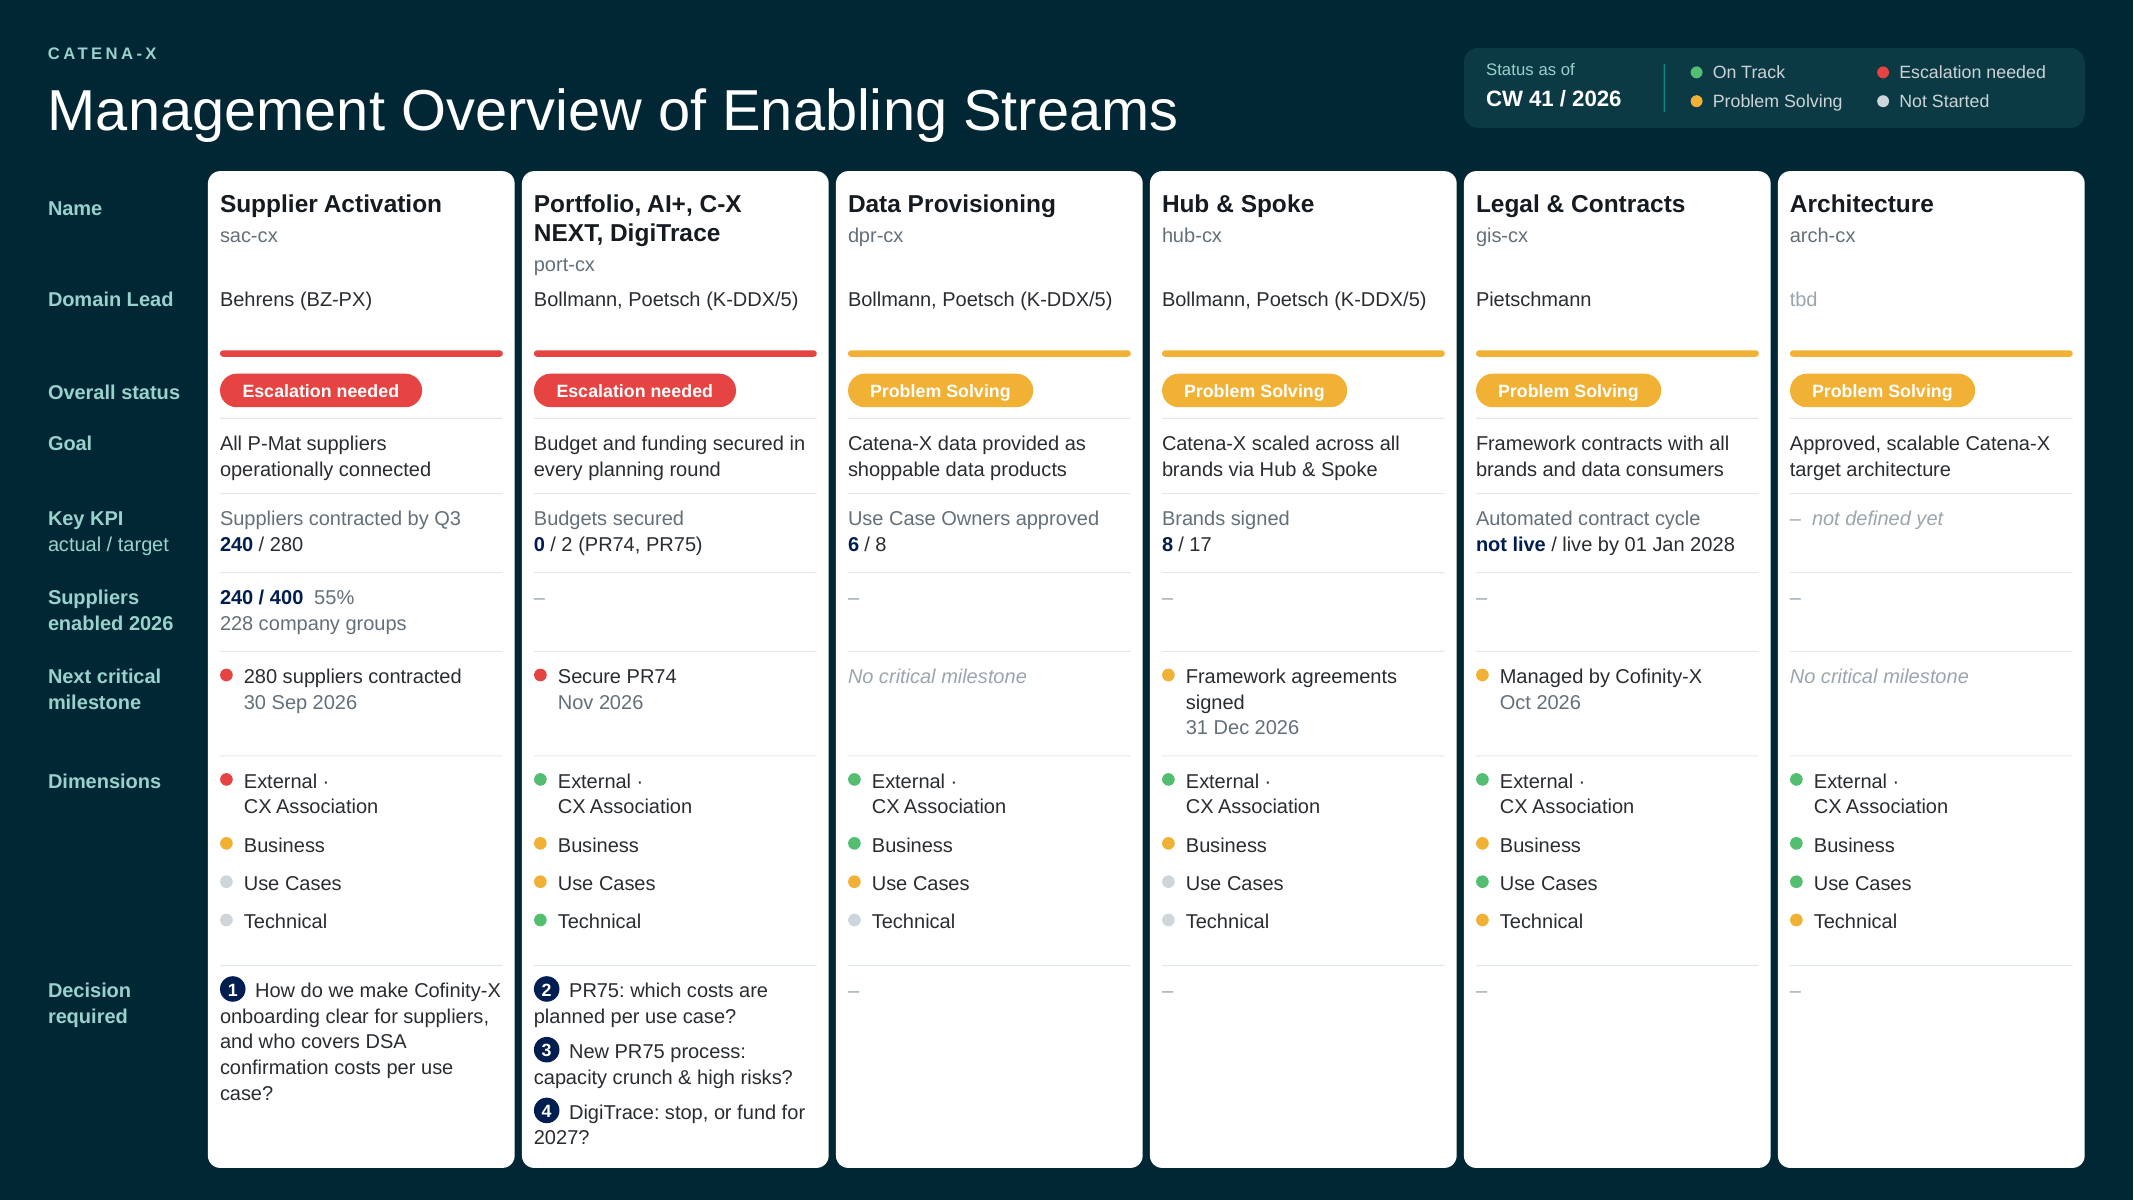
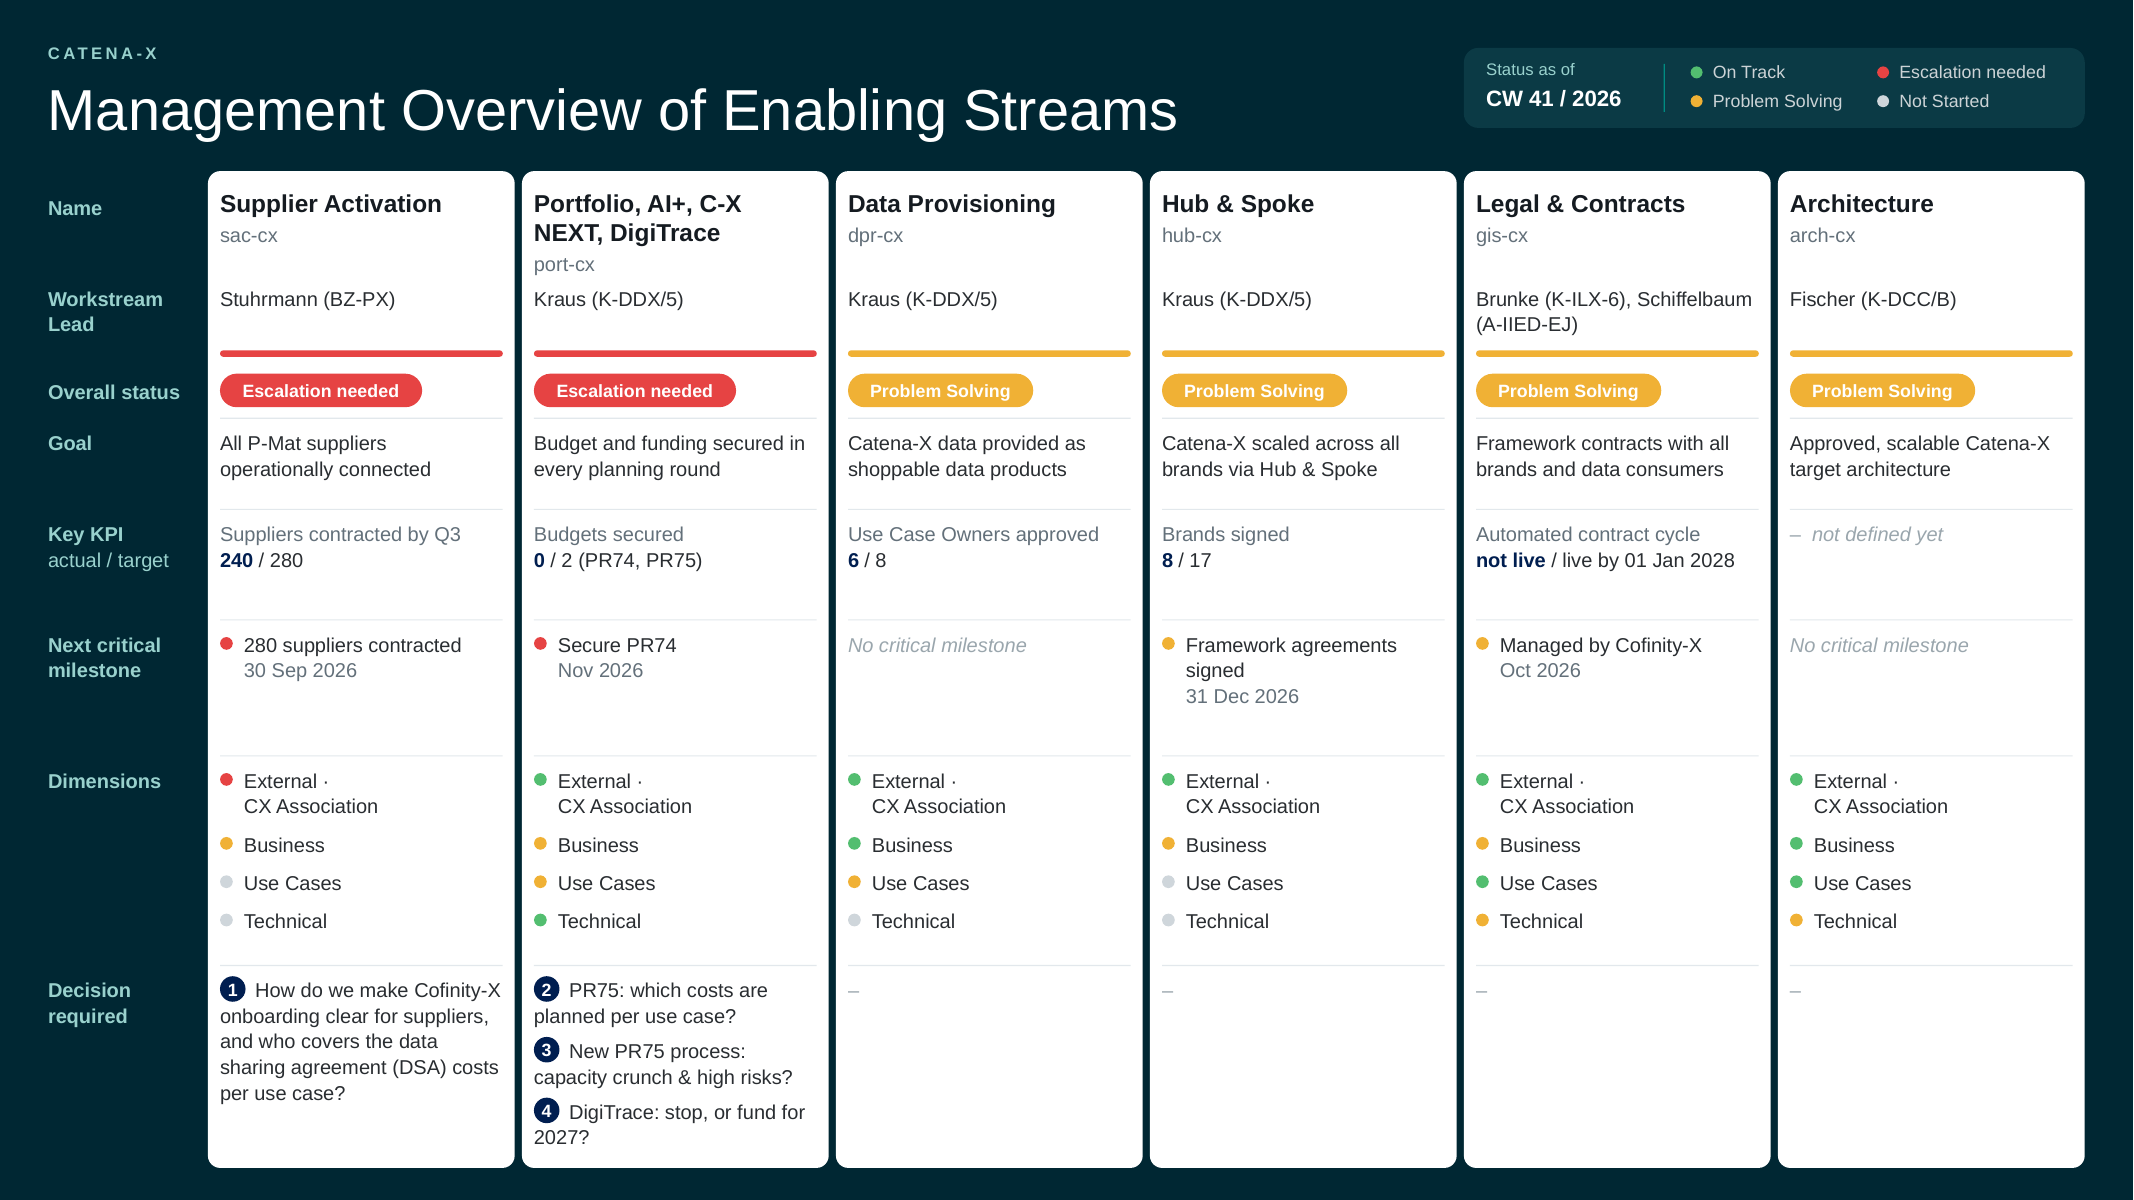
Enabling slide: Workstream Leads, no supplier row, DSA written out
- Head label 'Workstream Lead' with the workstream leads and departments
- Suppliers enabled row removed; shared grid now anchors status,
  dimensions and decisions across slides and spreads the middle rows
- Supplier Activation decision spells out data sharing agreement (DSA)

Claude-Session: https://claude.ai/code/session_01CQaEDurRGWu6YUbJ4GCCPu

diff --git a/scripts/build_enabling_overview.py b/scripts/build_enabling_overview.py
@@ -22,50 +22,45 @@ ENABLING_DIMS = ["External · CX Association", "Business", "Use Cases", "Technic
 # None = no amber/red milestone. kpi = (KPI title, actual, target) from the "KPIs (defined per area)" box;
 # actual None = not reported in the source slide (shown as "tbd").
 COLUMNS = [  # sorted: Escalation needed -> Problem solving -> On track
-    dict(name="Supplier Activation", abbr="sac-cx", dl="Behrens (BZ-PX)", status="esc",
+    dict(name="Supplier Activation", abbr="sac-cx", dl="Stuhrmann (BZ-PX)", status="esc",
          goal="All P-Mat suppliers operationally connected",
          kpi=("Suppliers contracted by Q3", "240", "280"),
-         sup=(240, 400), sup_pct=55, sup_note="228 company groups",
          ms=("esc", "280 suppliers contracted", "30 Sep 2026"),
          dims=["esc", "ps", "ns", "ns"],
-         decisions=[(1, "How do we make Cofinity-X onboarding clear for suppliers, "
-                        "and who covers DSA confirmation costs per use case?")]),
-    dict(name="Portfolio, AI+, C-X NEXT, DigiTrace", abbr="port-cx", dl="Bollmann, Poetsch (K-DDX/5)", status="esc",
+         decisions=[(1, "How do we make Cofinity-X onboarding clear for suppliers, and who covers "
+                        "the data sharing agreement (DSA) costs per use case?")]),
+    dict(name="Portfolio, AI+, C-X NEXT, DigiTrace", abbr="port-cx", dl="Kraus (K-DDX/5)", status="esc",
          goal="Budget and funding secured in every planning round",
          kpi=("Budgets secured", "0", "2 (PR74, PR75)"),
-         sup=None, sup_text="–",
          ms=("esc", "Secure PR74", "Nov 2026"),
          dims=["ok", "ps", "ps", "ok"],
          decisions=[(2, "PR75: which costs are planned per use case?"),
                     (3, "New PR75 process: capacity crunch & high risks?"),
                     (4, "DigiTrace: stop, or fund for 2027?")]),
-    dict(name="Data Provisioning", abbr="dpr-cx", dl="Bollmann, Poetsch (K-DDX/5)", status="ps",
+    dict(name="Data Provisioning", abbr="dpr-cx", dl="Kraus (K-DDX/5)", status="ps",
          goal="Catena-X data provided as shoppable data products",
-         kpi=("Use Case Owners approved", "6", "8"),
-         sup=None, sup_text="–", ms=None,
+         kpi=("Use Case Owners approved", "6", "8"), ms=None,
          dims=["ok", "ok", "ps", "ns"]),
-    dict(name="Hub & Spoke", abbr="hub-cx", dl="Bollmann, Poetsch (K-DDX/5)", status="ps",
+    dict(name="Hub & Spoke", abbr="hub-cx", dl="Kraus (K-DDX/5)", status="ps",
          goal="Catena-X scaled across all brands via Hub & Spoke",
          kpi=("Brands signed", "8", "17"),
-         sup=None, sup_text="–",
          ms=("ps", "Framework agreements signed", "31 Dec 2026"),
          dims=["ok", "ps", "ns", "ns"]),
-    dict(name="Legal & Contracts", abbr="gis-cx", dl="Pietschmann", status="ps",  # Domain Lead to be confirmed
+    dict(name="Legal & Contracts", abbr="gis-cx", dl="Brunke (K-ILX-6), Schiffelbaum (A-IIED-EJ)", status="ps",
          goal="Framework contracts with all brands and data consumers",
          kpi=("Automated contract cycle", "not live", "live by 01 Jan 2028"),
-         sup=None, sup_text="–",
          ms=("ps", "Managed by Cofinity-X", "Oct 2026"),
          dims=["ok", "ps", "ok", "ps"]),
-    dict(name="Architecture", abbr="arch-cx", dl="tbd", status="ps",  # Fischer is Workstream Manager
+    dict(name="Architecture", abbr="arch-cx", dl="Fischer (K-DCC/B)", status="ps",
          goal="Approved, scalable Catena-X target architecture",
-         kpi=None,
-         sup=None, sup_text="–", ms=None,
+         kpi=None, ms=None,
          dims=["ok", "ok", "ok", "ps"]),
 ]
 
 ENABLING_BOARD = dict(
     eyebrow="CATENA-X",
     title="Management Overview of Enabling Streams",
+    head_labels=["Name", "Workstream Lead"],
     columns=COLUMNS,
     dims=ENABLING_DIMS,
     dim_gap=0.08,  # four dimensions: more air between them
@@ -73,7 +68,6 @@ ENABLING_BOARD = dict(
         ("status", "Overall status"),
         ("goal", "Goal"),
         ("kpi", ("Key KPI", "actual / target")),
-        ("sup", "Suppliers enabled 2026"),
         ("ms", "Next critical milestone"),
         ("dims", "Dimensions"),
         ("dec", "Decision required"),

diff --git a/scripts/build_management_overview.py b/scripts/build_management_overview.py
@@ -284,8 +284,8 @@ def add_frame(s, board):
 
 GRID = dict(top_y=1.07, bottom_y=7.30, label_x=0.30, label_w=0.95, col_x0=1.30, col_x1=13.03, gap=0.045,
             pad=0.075, pad_top=0.07, pad_bottom=0.06)
-# Share of leftover height per row position: more air for rows 3-5, Decision required only moves down
-SPARE_WEIGHTS = [0.5, 1, 2, 2, 2, 1, 0]
+# Leftover height: top row / middle band / dimensions / decisions. Decision required only moves down.
+SPARE_SHARE = dict(top=0.5, middle=7, dims=1, dec=0)
 
 
 def card_width(board):
@@ -303,28 +303,45 @@ def label_runs(label):
 
 
 def compute_layout(boards):
-    """One vertical grid for all boards, so every row sits at the same height on every slide."""
+    """One vertical grid for all boards.
+
+    The first row (overall status) and the last two rows (dimensions, decisions) sit at the same height on
+    every slide. The rows in between share the band between them, so a board with fewer middle rows gets
+    more air instead of a gap.
+    """
     name_lines = dl_lines = 1
-    n_rows = len(boards[0]["rows"])
-    heights = [0.0] * n_rows
+    content = {}
     for board in boards:
         _, w = card_width(board)
         cols = board["columns"]
         name_lines = max(name_lines, *(n_lines(uc["name"], F_NAME, w * SEGOE_FACTOR, bold=True) for uc in cols))
         dl_lines = max(dl_lines, *(n_lines(uc["dl"], F, w) for uc in cols))
-        for i, (key, label) in enumerate(board["rows"]):
-            content = max(max(cell(key, uc, w, board)[0] for uc in cols), label_runs(label)[1] * LH)
-            heights[i] = max(heights[i], GRID["pad_top"] + content + GRID["pad_bottom"])
+        content[board["title"]] = [
+            GRID["pad_top"] + max(max(cell(key, uc, w, board)[0] for uc in cols), label_runs(label)[1] * LH)
+            + GRID["pad_bottom"] for key, label in board["rows"]]
 
     y_name = GRID["top_y"] + 0.11
     y_dl = y_name + name_lines * LH_NAME + 0.02 + LH + 0.06  # name slot, abbreviation, gap
     y_bar = y_dl + dl_lines * LH + 0.09
     rows_top = y_bar + 0.10
-    spare = (GRID["bottom_y"] - 0.06) - (rows_top + sum(heights))
+
+    top = max(h[0] for h in content.values())
+    middle = max(sum(h[1:-2]) for h in content.values())
+    dims = max(h[-2] for h in content.values())
+    dec = max(h[-1] for h in content.values())
+    spare = (GRID["bottom_y"] - 0.06) - (rows_top + top + middle + dims + dec)
     if spare < 0:
         print(f"WARNING: content is {-spare:.2f} in taller than the slide", file=sys.stderr)
-    weights = SPARE_WEIGHTS[:n_rows]
-    heights = [h + max(spare, 0) * wt / sum(weights) for h, wt in zip(heights, weights)]
+    share = {k: max(spare, 0) * v / sum(SPARE_SHARE.values()) for k, v in SPARE_SHARE.items()}
+    top, middle, dims, dec = top + share["top"], middle + share["middle"], dims + share["dims"], dec + share["dec"]
+
+    heights = {}
+    for title, h in content.items():
+        mids = h[1:-2]
+        weights = [1] + [2] * (len(mids) - 1)  # first middle row (phase / goal) gets less extra air
+        extra = middle - sum(mids)
+        mids = [m + extra * wt / sum(weights) for m, wt in zip(mids, weights)]
+        heights[title] = [top] + mids + [dims, dec]
     return dict(name_lines=name_lines, dl_lines=dl_lines, y_name=y_name, y_dl=y_dl, y_bar=y_bar,
                 rows_top=rows_top, heights=heights)
 
@@ -354,11 +371,11 @@ def build(board=USE_CASE_BOARD, layout=None):
         s.shape(f"Col {n} Status Bar", x, y_bar, w, 0.04, "roundRect", 50000, STATUS[uc["status"]][1])
 
     # Left column on the dark background: labels aligned with name / Domain Lead and with each row
-    for label, y in zip(HEAD_LABELS, (y_name + 0.03, y_dl)):
+    for label, y in zip(board.get("head_labels", HEAD_LABELS), (y_name + 0.03, y_dl)):
         para_box(s, f"Head Label {label}", g["label_x"], y, g["label_w"], 1, [[r(label, F, True, ACCENT_LIGHT)]])
 
     y = layout["rows_top"]
-    for (key, label), h in zip(rows, layout["heights"]):
+    for (key, label), h in zip(rows, layout["heights"][board["title"]]):
         top = y + g["pad_top"]
         paras, _ = label_runs(label)
         title = label if isinstance(label, str) else label[0]
